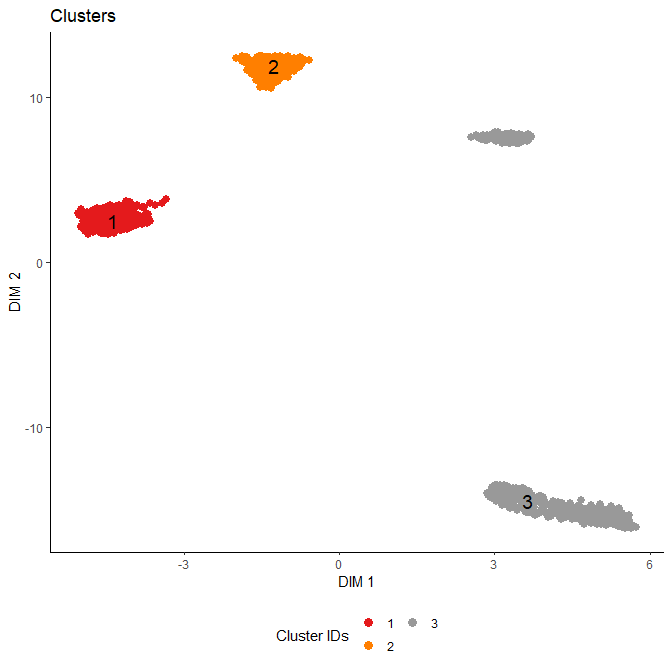
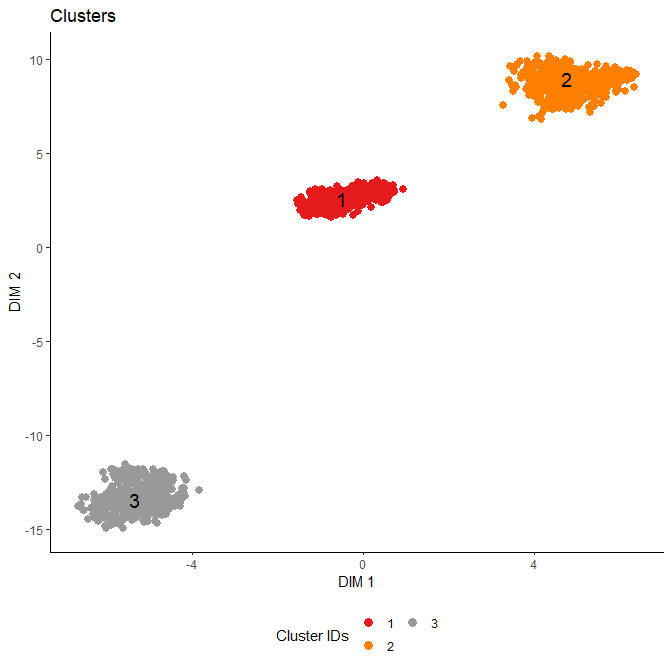
add changes

diff --git a/doc/batchCorrection.md b/doc/batchCorrection.md
@@ -33,16 +33,16 @@ batch.
     #> Sort Top Genes...
     #> Cutoff Genes...
     #> Building graph with 901 nodes...Louvain Partition...Done.
-    #> 700 samples extracted.
-    #> Find best PCA components...[1]  700 1000
+    #> 702 samples extracted.
+    #> Find best PCA components...[1]  702 1000
     #> 200 genes selected.
-    #> 700 samples and 200 genes used for clustering.
-    #> Build Graph with 700 samples...Done.
+    #> 702 samples and 200 genes used for clustering.
+    #> Build Graph with 702 samples...Done.
     #> Louvain Partitioning...Done.
     #> Find nearest neighbours among sub-samples...Done.
     #> Post-hoc Cluster Assignment...Done.
     #> Unassigned Cells 0 
-    #> Number of Predicted Clusters: 6 
+    #> Number of Predicted Clusters: 7 
     #> Computing for DE genes:
     #> Cluster 1 :
     #>  Computing Wilcoxon p values...Done.
@@ -60,6 +60,9 @@ batch.
     #>  Computing Wilcoxon p values...Done.
     #>  Computing Log fold change values...Done.
     #> Cluster 6 :
+    #>  Computing Wilcoxon p values...Done.
+    #>  Computing Log fold change values...Done.
+    #> Cluster 7 :
     #>  Computing Wilcoxon p values...Done.
     #>  Computing Log fold change values...Done.
     #> 
@@ -127,9 +130,9 @@ batch.
 ``` r
 set.seed(1)
 dc.corr <-  Correction(merged_data,  method="default", close_th = 0.1, cells_th = 0.1,
-                       components = 10, n_neighbors = 20,  min_dist = 0.5)
+                       components = 10, n_neighbors = 30,  min_dist = 1)
 #> Batch correcting...
-#> from 172 to 97 genes.
+#> from 177 to 100 genes.
 #> Embedding with UMAP...Done
 ```
 
@@ -150,7 +153,7 @@ ScatterPlot(dc.corr, title = "Clusters")
 ```
 
 ![Batch corrected dropClust based
-Clustering.](batchCorrection_files/figure-gfm/unnamed-chunk-5-1.png)
+Clustering.](C:/Users/Debajyoti/AppData/Local/Temp/RtmpSwbch8/preview-1ca460ff1c7d.dir/batchCorrection_files/figure-gfm/unnamed-chunk-5-1.png)
 \#\# Optional Batch correction Users can use `fastmnn` method for batch
 correction. Specific arguments of fastmnn can also be passed through the
 `Correction` module.
@@ -186,7 +189,7 @@ mnn.corr = Cluster(mnn.corr,method = "kmeans",centers = 3)
 ScatterPlot(mnn.corr, title = "Clusters")
 ```
 
-![](batchCorrection_files/figure-gfm/unnamed-chunk-6-1.png)<!-- -->
+![](C:/Users/Debajyoti/AppData/Local/Temp/RtmpSwbch8/preview-1ca460ff1c7d.dir/batchCorrection_files/figure-gfm/unnamed-chunk-6-1.png)<!-- -->
 
 ## Marker discovery from the merged dataset
 
@@ -204,14 +207,14 @@ de<-FindMarkers(dc.corr,q_th = 0.001, lfc_th = 1.2,nDE = 10)
 #>  Computing Log fold change values...Done.
 de$genes.df
 #>       cluster_1         cluster_2         cluster_3        
-#>  [1,] "ENSG00000179344" "ENSG00000221923" "ENSG00000122406"
-#>  [2,] "ENSG00000121858" "ENSG00000106211" "ENSG00000065978"
-#>  [3,] "ENSG00000214548" "ENSG00000100867" "ENSG00000142864"
-#>  [4,] "ENSG00000131203" "ENSG00000242265" "ENSG00000253706"
-#>  [5,] "ENSG00000151632" "ENSG00000196109" "ENSG00000106153"
-#>  [6,] "ENSG00000223865" "ENSG00000129991" "ENSG00000258484"
-#>  [7,] "ENSG00000198502" "ENSG00000105568" "ENSG00000162433"
-#>  [8,] "ENSG00000100234" "ENSG00000178150" "ENSG00000132432"
-#>  [9,] "ENSG00000154277" "ENSG00000130724" "ENSG00000167641"
-#> [10,] "ENSG00000134339" "ENSG00000170906" "ENSG00000256670"
+#>  [1,] "ENSG00000179344" "ENSG00000266891" "ENSG00000249395"
+#>  [2,] "ENSG00000121858" "ENSG00000100979" "ENSG00000253706"
+#>  [3,] "ENSG00000100234" "ENSG00000100867" "ENSG00000135446"
+#>  [4,] "ENSG00000149557" "ENSG00000258949" "ENSG00000132432"
+#>  [5,] "ENSG00000214548" "ENSG00000221923" "ENSG00000258484"
+#>  [6,] "ENSG00000198502" "ENSG00000129991" "ENSG00000135506"
+#>  [7,] "ENSG00000231389" "ENSG00000231290" "ENSG00000147889"
+#>  [8,] "ENSG00000196735" "ENSG00000170291" "ENSG00000147604"
+#>  [9,] "ENSG00000223865" "ENSG00000164744" "ENSG00000154582"
+#> [10,] "ENSG00000151632" "ENSG00000237268" "ENSG00000167641"
 ```
